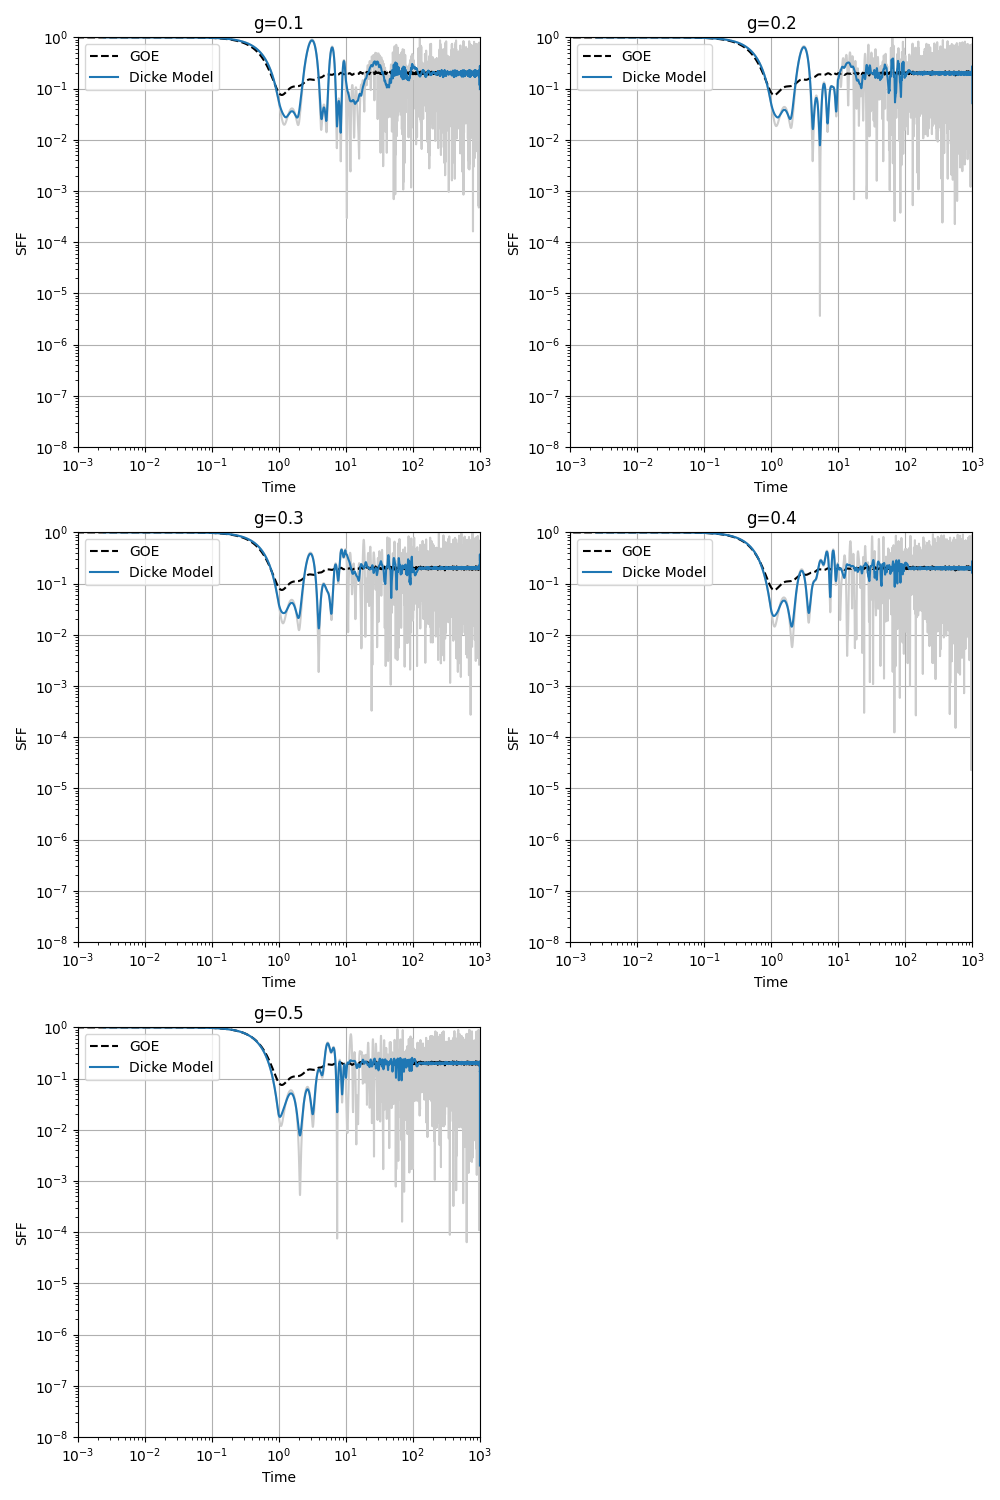
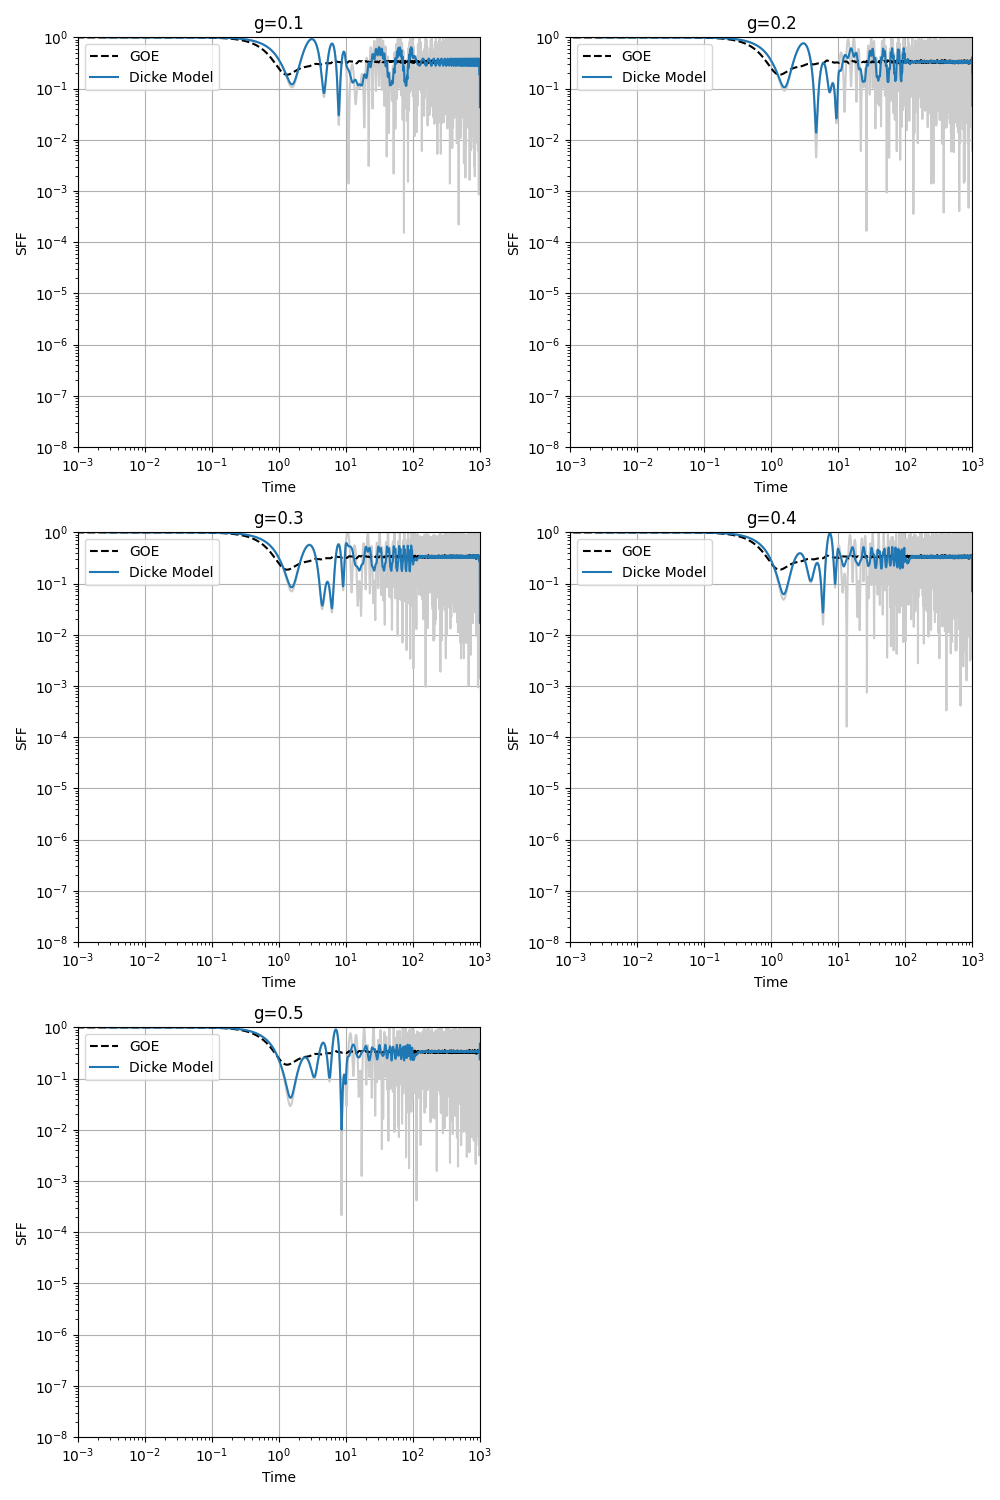
Better parallel processing

diff --git a/plot_SFF.py b/plot_SFF.py
@@ -88,7 +88,7 @@ if __name__ == '__main__':
     dataList = []
     for g in g_arr_ch:
         if not os.path.exists(f"SFF/SFFvsTime,j={j},M={M},g={g},beta={beta}.dat"):
-                calc_SFF.main()
+            calc_SFF.main()
         
         data = np.loadtxt(f"SFF/SFFvsTime,j={j},M={M},g={g},beta={beta}.dat", dtype=complex)
         data_rl = []
@@ -116,9 +116,9 @@ if __name__ == '__main__':
         data_raw = np.column_stack(data_raw)
         plt.plot(data_raw[0],data_raw[1],color='0.8')
 
-        # Plot GOE 
-        if not os.path.exists(f"SFF/SFFvsTime,j={j},M={M},g={g},beta={beta}.dat"):
-                calc_SFF.main()
+        # Plot GOE
+        if not os.path.exists(f"SFF/goe_sff_data,j={j},M={M},N={N},ntraj={num_realizations}.dat"):
+            calc_SFF_GOE.main()
         data1 = np.loadtxt(f"SFF/goe_sff_data,j={j},M={M},N={N},ntraj={num_realizations}.dat",dtype=complex)
         data1 = np.column_stack(data1)
 

diff --git a/parameters.py b/parameters.py
@@ -31,13 +31,13 @@ kappa = 1.0
 # Number of trajectories of MCWF method
 ntraj = 100
 # Values of beta for open model
-beta_arr = [10]
+beta_arr = [0, 2, 5, 7, 10]
 
 # Number of random matrices to average over in GOE and GUE
 num_realizations = 1000  
 
 # Number of Processes
-nproc = 5
+nproc = 40
 
 # Time list
 # Generate the intervals with the specified number of points
